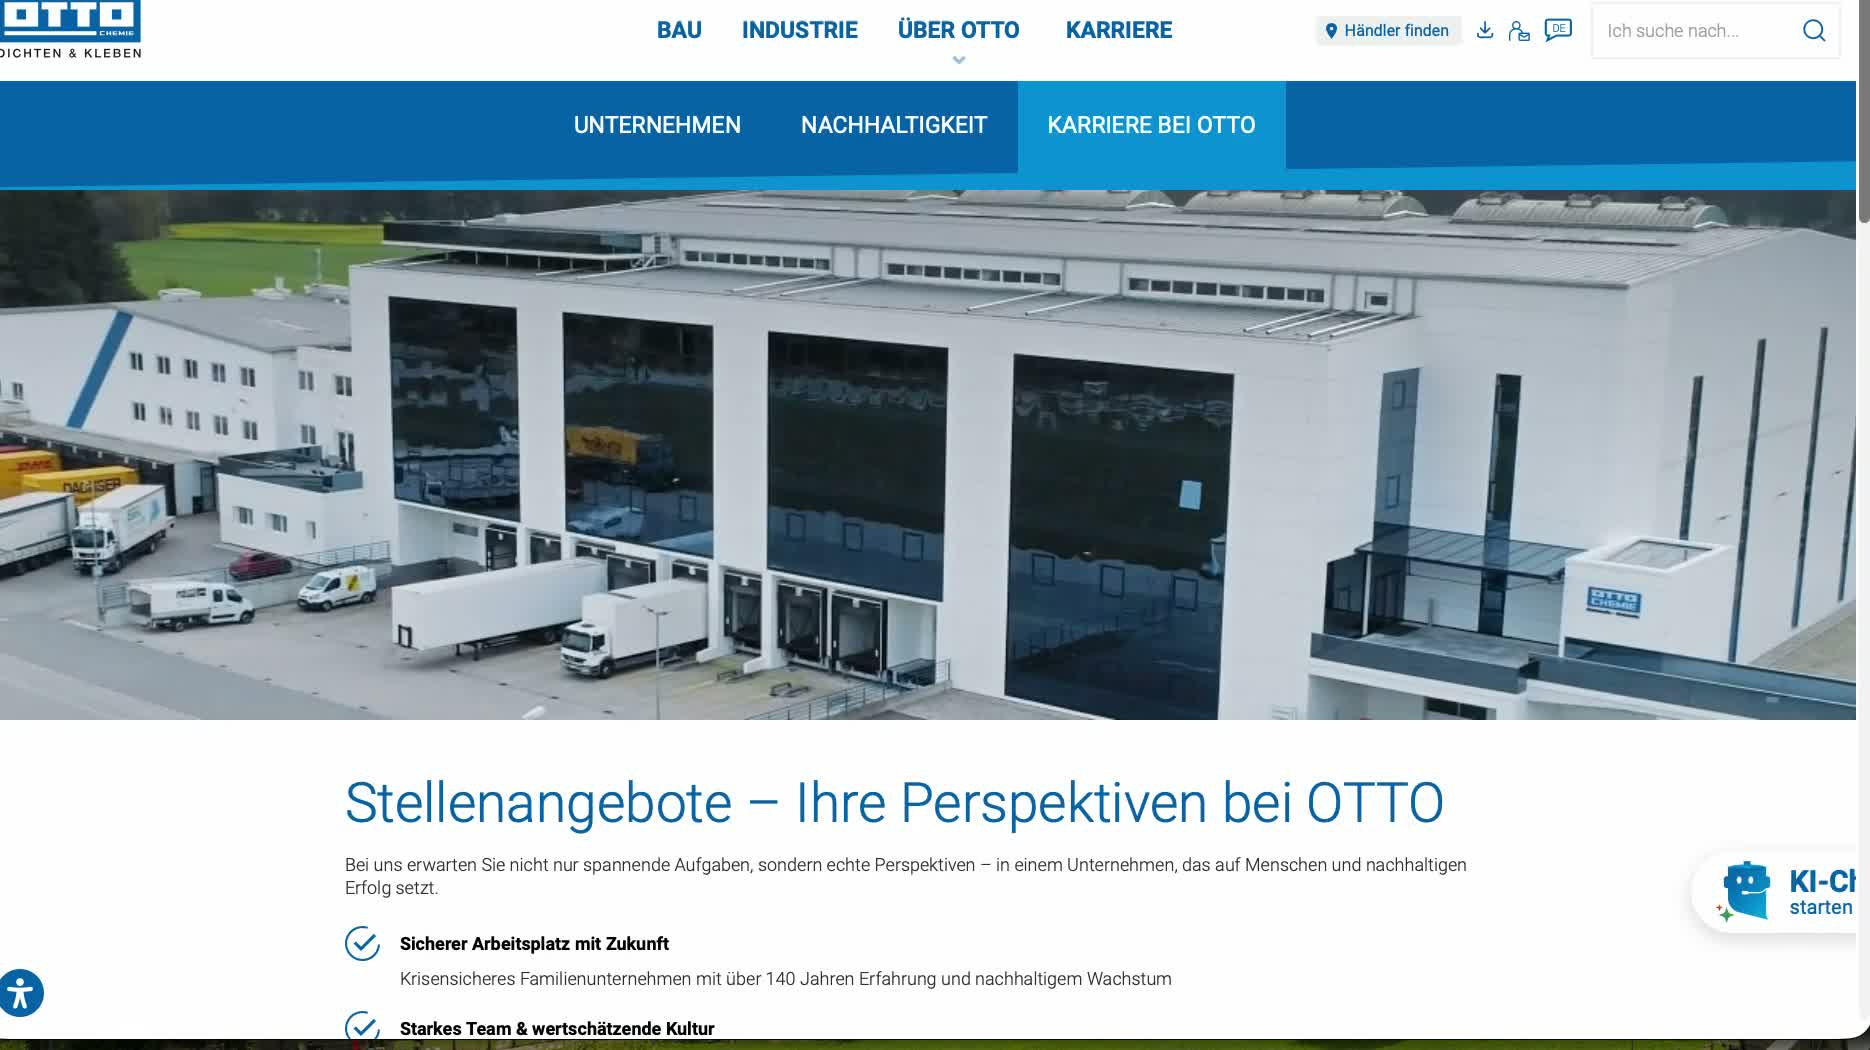
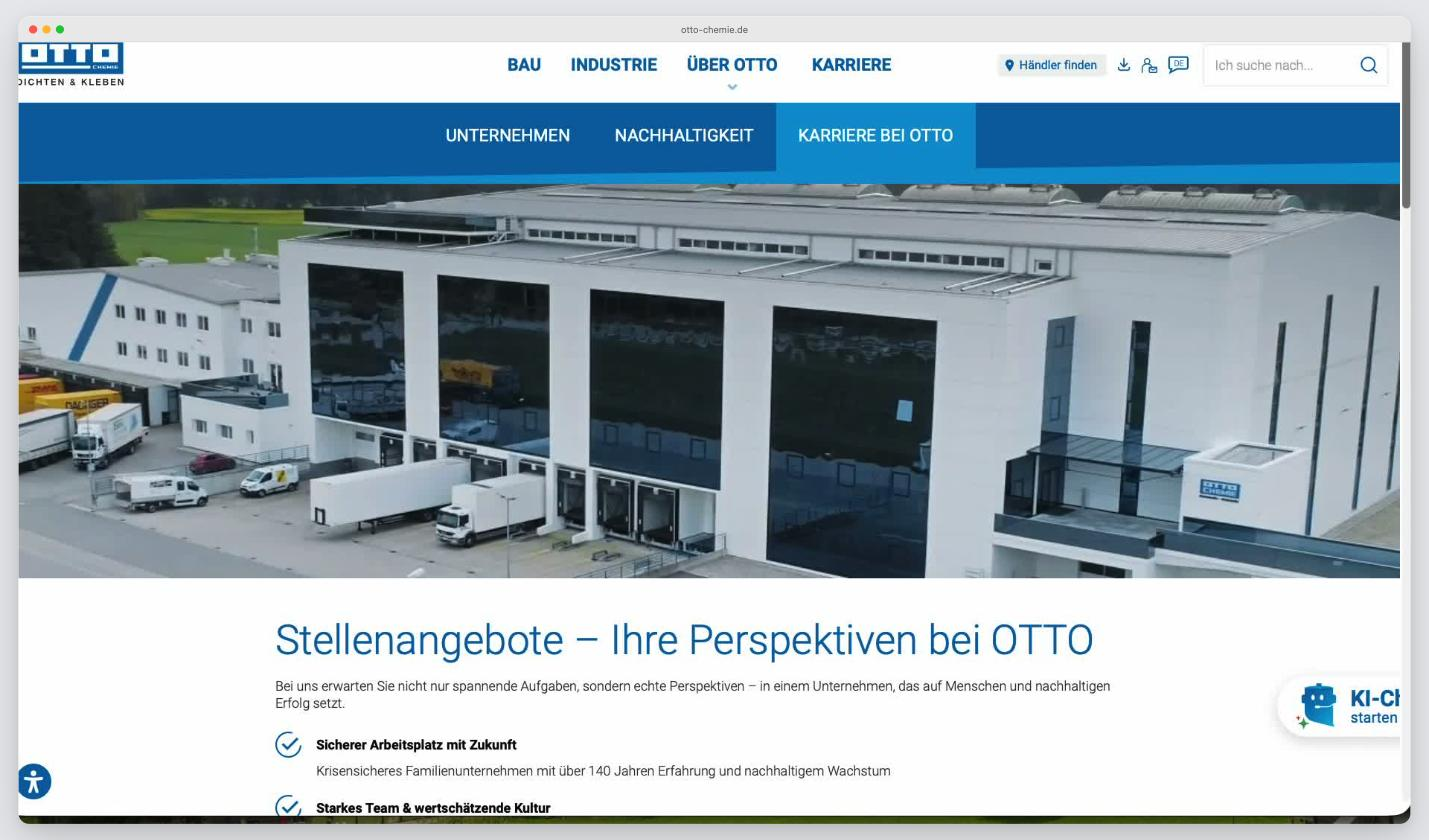
Frame otto-chemie SOP screenshots: native-res mac window, centered, no forced 16:9

diff --git a/_template/screenshot-frame-template.html b/_template/screenshot-frame-template.html
@@ -6,9 +6,10 @@
      Resize the browser viewport to match window.offsetWidth/offsetHeight
      (read via JS after load) before taking the final screenshot, so there is
      no extra page background or scrollbar around the card. */
-  html,body{margin:0;padding:0;background:#e9eaed;font-size:0;}
+  html,body{margin:0;padding:0;background:#e9eaed;font-size:0;height:100%;}
   body{
     font-family: -apple-system, "SF Pro Text", ui-sans-serif, system-ui, sans-serif;
+    display:flex; align-items:center; justify-content:center;
   }
   .window{
     display:inline-block;
